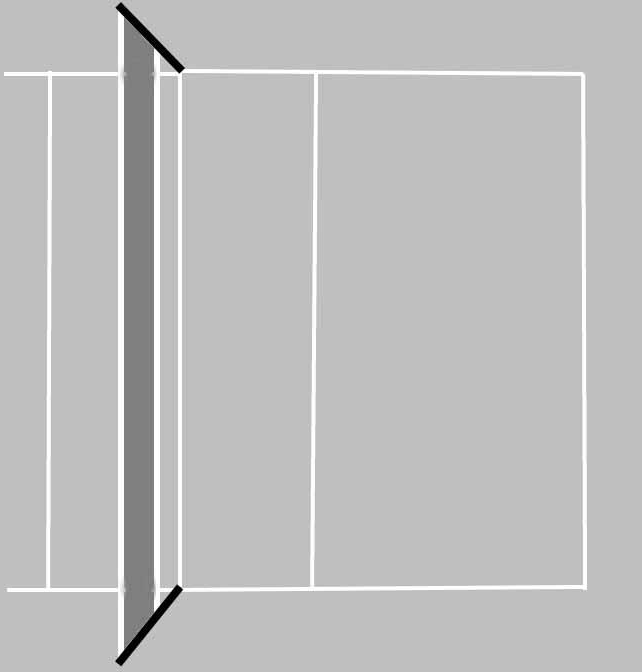
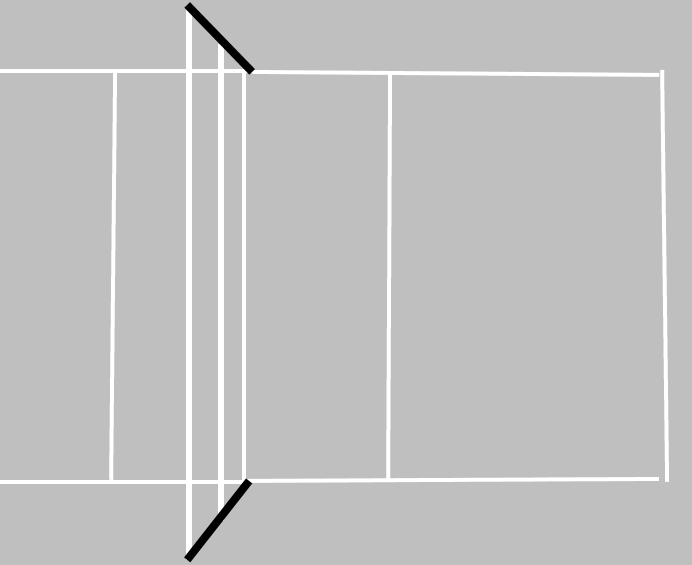
neues feld

Changed region(s): [[0.0, 0.0, 0.9657, 0.9929]]

diff --git a/mtqplayer/qml/Playground.qml b/mtqplayer/qml/Playground.qml
@@ -3,8 +3,8 @@ import mtq.widgets 1.0
 
 Rectangle {
 
-    property int playFieldWidth : 1900;
-    property int playFieldHeight : 1900;
+    property int playFieldWidth : 1850;
+    property int playFieldHeight : 1850;
     property variant initialPositions :
         [[0.6 * playFieldWidth, 0.2 *playFieldHeight],
         [0.05 * playFieldWidth, 0.2 *playFieldHeight],
@@ -45,18 +45,18 @@ Rectangle {
         id : fieldimage
         source: "../images/playfield.png"
         height: floor.height
-        width: 642*floor.height/672
+        width: 692*floor.height/565
 
 
         Label {
             id: infolabelbasic
-            x: 50
-            y: playFieldHeight/2
+            x: 600
+            y: playFieldHeight/1.3
             text: ""
             transform: Rotation { origin.x: 0; origin.y: 25; angle: 270}
             Text {
                 id : infolabel
-                text: ""
+                text: "o"
                 font.family: "Helvetica"
                 font.pointSize: 50
                 color: "red"
@@ -88,14 +88,14 @@ Rectangle {
 
         Player {
             id: opponent4
-            x: 100
+            x: 400
             y: 300
             state: "opponent"
         }
 
         Player {
             id: opponent3
-            x: 100
+            x: 450
             y: 900
             state: "opponent"
         }
@@ -104,7 +104,7 @@ Rectangle {
 
         Player {
             id: opponent2
-            x: 100
+            x: 400
             y: 1600
             state: "opponent"
         }
@@ -113,9 +113,9 @@ Rectangle {
 
         Rectangle {
             id : playfield
-            x: 580//180/672*642
+            x: 1050//180/672*642
             y: 250
-            color:  "transparent" //red"
+            color:  "transparent"
             height : playFieldHeight
             width: playFieldWidth
 
@@ -124,7 +124,7 @@ Rectangle {
                 id: ball
                 x: 0-parent.x+opponent3.x
                 y: 0-parent.y+ opponent3.y
-                opacity: 0.8
+                opacity: 0.9
 
             }
 
@@ -184,7 +184,7 @@ Player {
 
 PlayerMenu {
         id: playermenu
-    x : 2000
+    x : 2200
     y : 600
 }
 
@@ -383,6 +383,7 @@ PushButton {
         for (var i=0; i<6; i++) {
             allPlayers[i].goTo(initialPositions[i][0], initialPositions[i][1], 500)
             allPlayers[i].state = "auto"
+            allPlayers[i].visible = true
             turn42Arrows[i].reset()
         }
         ball.moveTo(0, 0, 500)

diff --git a/mtqplayer/qml/Arrow.qml b/mtqplayer/qml/Arrow.qml
@@ -47,8 +47,17 @@ Rectangle
 
 //Mehrere Spalten
 
+    Image {
+        id: imagearrow
+        source: "../images/Pfeil.png"
+        x: thickness
+        y: 0
+        height: parent.height
+        width: thickness
+    }
+
     // Spalte für den richtigen Weg
-        Column {
+    /*    Column {
              x: thickness; y: 0
              spacing: 0
 
@@ -66,7 +75,7 @@ Rectangle
              }
 
          }
-
+*/
         // Spalte für Abweichung links
         Column {
              x: 0; y: 0

diff --git a/mtqplayer/qml/Player.qml b/mtqplayer/qml/Player.qml
@@ -24,6 +24,7 @@ Image
     visible: true
     state : "auto"
 
+
     states: [State {
                  name: "rotation"
                  PropertyChanges { target: player; rotation: rotationAngel }
